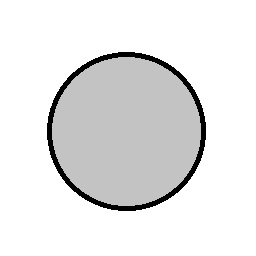
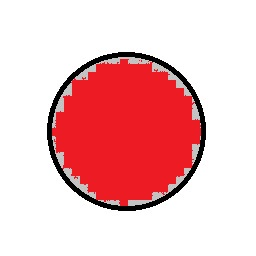
Bug Fixed: Shell cannot damage the monster Bug Fixed: Tower cannot change attack object Changed shell picture

Changed region(s): [[0.1875, 0.2188, 0.8125, 0.8125]]

diff --git a/src/Shell.java b/src/Shell.java
@@ -42,17 +42,21 @@ public class Shell {
 	// functions
 	public void update()
 	{
+		// System.out.printf("Run! pos = (%f, %f)\n", x, y);
+		if(obj.toDestroy)
+			toDestroy = true;
 		if(toDestroy)
 			return;
+		angle = Math.atan2(obj.y - y, obj.x - x);
 		x += speed * TowerDefense.deltaTime * Math.cos(angle);
 		y += speed * TowerDefense.deltaTime * Math.sin(angle);
-		angle = Math.atan2(obj.y - y, obj.x - x);
-		if(Point.distance(x, y, obj.x, obj.y) < 0.01)
+		if(Point.distance(x, y, obj.x, obj.y) < 10)
 			explode();
 	}
 	
 	public void explode()
 	{
+		// System.out.println("Boom!");
 		if(toDestroy)
 			return;
 		obj.hurt(damage);

diff --git a/src/Tower.java b/src/Tower.java
@@ -62,7 +62,7 @@ public class Tower {
 		timer -= TowerDefense.deltaTime;
 		if(timer < 0)	timer = 0;
 		
-		if(obj == null)
+		if(obj == null || obj.toDestroy)
 			obj = search();
 		if(obj != null && timer == 0)
 			attack(obj);
@@ -70,9 +70,11 @@ public class Tower {
 	
 	void attack(Monster m)
 	{
-		Shell s = new Shell(shellPicName, x, y, atk, 1000, m);
+		Point screenP = TowerDefense.ui.gridToCoordinate(new Point(x, y));
+		Shell s = new Shell(shellPicName, screenP.x, screenP.y, atk, 0.4, m);
 		TowerDefense.registerShell(s);
 		timer += 1000 * rate;
+		// System.out.println("Attack!");
 	}
 	
 	Monster search()

diff --git a/src/TowerDefense.java b/src/TowerDefense.java
@@ -162,7 +162,7 @@ class Reminder{
 
 public class TowerDefense {
 	/* Resource */
-	static int deltaTime = 150;
+	static int deltaTime = 50;
 	static int row = 7,column = 15;
 	static int start_x,start_y;
 	static int gold = 100,level,health;
